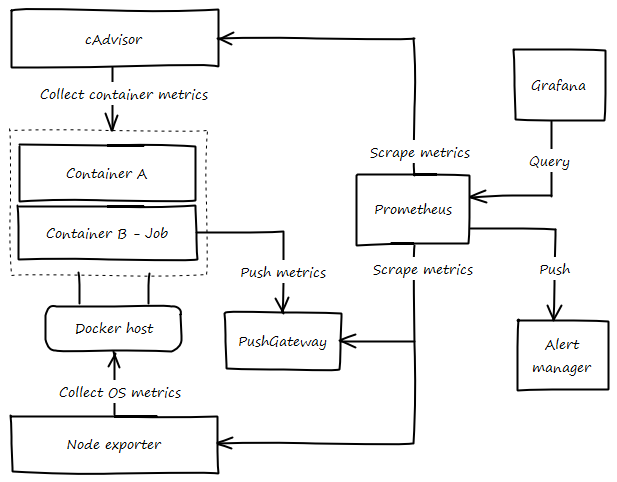
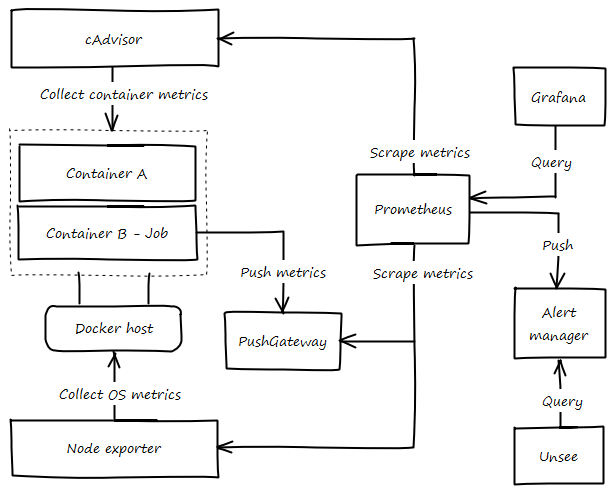
Actualiza la parte del sistema

Changed region(s): [[0.0, 0.0, 0.9902, 0.9959], [0.0928, 0.3423, 0.2476, 0.3734], [0.1238, 0.0622, 0.2476, 0.0934]]

diff --git a/mkdocs/docs/arquitectura/system.md b/mkdocs/docs/arquitectura/system.md
@@ -13,10 +13,10 @@ El "manager" es el encargado de exponer de exponer los diferentes servicios a In
 
 Los "workers" son servidores donde se ejecutan los servicios, están distribuidos entre las 3 zonas que provee Amazon en la región "eu-west-1", esta distribución evita que la aplicación deje de responder si alguna de las zonas cae.
 
-Esta configuración de servidores adoptada viene impuesta por Docker Swarm, dónde existe uno o varios managers, encargados de la reparto de tareas, y un conjunto de servidores workers en donde se desplegan las distintas herramientas.
+Esta configuración de servidores adoptada viene impuesta por Docker Swarm, dónde existe uno o varios managers, encargados del reparto de tareas, y un conjunto de servidores workers, donde se desplegan las distintas herramientas.
 
 ### Despliegue
-Para el aprovisionamiento de todas estas máquinas, con sus respectivos requisitos se ha utilizado como base la plantilla de CloudFormation que proporciona [Docker for AWS](https://docs.docker.com/docker-for-aws/){: target="_blank"}. Dicha plantilla ha sido personalizada, por un lado porque se encontró un problema con el plugin ClouStor y el almacenamiento EFS, que hacia que el comportamiento de la aplicación no fuese el adecuado, así que se optó por reemplazar la imagen base utilizada, Moby Linux, por Ubuntu Server, debido ha que era la causante del problema.
+Para el aprovisionamiento de todas estas máquinas, con sus respectivos requisitos se ha utilizado como base la plantilla de CloudFormation que proporciona [Docker for AWS](https://docs.docker.com/docker-for-aws){: target="_blank"}. Dicha plantilla ha sido personalizada, debido a un problema con el plugin [CloudStor](https://docs.docker.com/docker-for-aws/persistent-data-volumes){: target="_blank"} y el almacenamiento tipo EFS, que hacia que el comportamiento de la aplicación no fuese el adecuado, así que se optó por reemplazar la imagen base utilizada, Moby Linux, por Ubuntu Server, debido ha que la imagen original era la causante del problema.
 
 En la plantilla se definen varios parámetros:
 
@@ -26,8 +26,18 @@ En la plantilla se definen varios parámetros:
 * Tipo de instancias AWS, tanto para managers como workers
 * Tipo de discos y capacidades de los mismos
 
+## Gestión
+Todas los servicios que componen REDMIC trabajan dentro de un contenedor, esto permite aislar cada servicio del entorno de ejecución, evitando problemas de versiones de librerías, conflictos de configuraciones, etc. La distribución de los contenedores en los diferentes servidores es responsabilidad de Docker Swarm, pero en ciertos casos es necesario forzar la distribución a un servidor específico, para ello se siguen ciertos criterios:
+
+* Analizar las cargas de los servidores, para evitar tener servidores con cargas desbalanceadas.
+* Dependencias entre servicios, si hay dependencia entre servicios, y siempre que sea posible se despliegan en el mismo servidor para reducir la latencia de transferencia de datos. Un ejemplo puede ser el contenedor encargado de realizar el backup de la base de datos, sería conveniente que se ejecute en la misma máquina donde se encuentra la base de datos, de esta forma se evita tráfico de red.
+
+Para los contenedores con necesidades de almacenamiento, se utiliza el plugin CloudStor, el cual permite dependiendo del tipo de requisitos montar discos "EBS" o "EFS" a los servidores de forma transparente, utilizando los ficheros de configuración usados para definir los requisitos de cada servicio.
 
 
 
 
+!!! tip
+    Cuando un servicio hace uso intensivo de disco, por ejemplo caché de Nginx, se pueden montar varios volúmenes (EBS) en diferentes directorios, y repartir la caché entre estos discos. De esta forma se reduce la latencia de acceso a disco.
 
+    Esto será solo posible si el servicio permite el uso de varios directorios de trabajo.

diff --git a/mkdocs/docs/arquitectura/monitoring.md b/mkdocs/docs/arquitectura/monitoring.md
@@ -1,14 +1,4 @@
 # Monitorización
-## Gestión
-La distribución de los contenedores en los diferentes servidores, se siguen ciertos criterios:
-
-* Analizar las cargas de los servidores.
-* Dependencias entre servicios, si hay dependencia entre servicios, y siempre que sea posible se despliegan en el mismo servidor para reducir la latencia de transferencia de datos.
-
-!!! tip
-    Cuando un servicio hace uso intensivo de disco, por ejemplo caché de Nginx, se pueden montar varios volúmenes (EBS) en diferentes directorios, y repartir la caché entre estos discos. De esta forma se reduce la latencia de acceso a disco.
-
-    Esto será solo posible si el servicio permite el uso de varios directorios de trabajo.
 
 ### Portainer
 [Portainer](https://portainer.io){: target="_blank"} es un herramienta web para manejar el entorno Docker Swarm, lo que facilita ver el estado del sistema sin tener que acceder a los servidores directamente.
@@ -70,12 +60,16 @@ Cuando un contenedor de este tipo necesita exponer una métrica, realiza un PUT 
 ---
 
 ## Alertas
-Para 
+Una parte importante del sistema son las alertas, estas permitirán detectar posibles problemas.
+
 ### Alertmanager
-[Alertmanager](https://github.com/prometheus/alertmanager){: target="_blank"}
+[Alertmanager](https://github.com/prometheus/alertmanager){: target="_blank"} es un componente que agrupa las alertas recibidas desde Prometheus, elimina alertas duplicadas y envia notificaciones o por diferentes canales: emails, slack, telegram, etc.
+
+A parte de enviar notificaciones permite enviar acciones a otros servicios que soporten webhooks, esto por ejemplo permite escalar un servicio en caso de tener una alta demanda o cuando esta demanda se reduzca reducir el número de instancias del servicio, para ajustar la demanda al número de instancias.
 
 ### Unsee
-[Unsee](https://github.com/cloudflare/unsee){: target="_blank"}
+[Unsee](https://github.com/cloudflare/unsee){: target="_blank"} permite ver de forma gráfica las alertas que existen actualmente.
+
 
 ## Chequeo de salud
 Todos los contenedores tienen un chequeo de salud que se realiza cada cierto tiempo mientras están en ejecución, esto permite comprobar si el contenedor está funcionando correctamente. Si el chequeo detecta que el funcionamiento no es correcto, el contenedor es parado y se arranca una nueva instancia.

diff --git a/mkdocs/docs/index.md b/mkdocs/docs/index.md
@@ -1,6 +1,9 @@
 # Concepto
 ## ¿Qué es REDMIC?
-*REDMIC* está concebido como un sistema para la gestión de datos marinos, sin tener en cuenta su origen; oceanográficos, biológicos, hidrodinámicos, pesqueros, geológicos, tráfico marítimo, etc. Dicho sistema permite el registro, validación, búsqueda, recuperación, visualización, análisis y exportación de los datos.
+REDMIC está concebido como un sistema para la gestión de datos marinos, sin tener en cuenta su origen; oceanográficos, biológicos, hidrodinámicos, pesqueros, geológicos, tráfico marítimo, etc. en un solo herramienta. Esta característica convierte a REDMIC en una herramienta única.
+
+
+Dicho sistema permite el registro, validación, búsqueda, recuperación, visualización, análisis y exportación de los datos.
 
 ![data_sources](images/data_sources.jpg){: .shadow}
 
@@ -46,9 +49,9 @@ Debido a la gran variedad de datos que abarca REDMIC, se pueden tener diferentes
 
 
 ## ¿Por qué poner tus datos en REDMIC?
-Colaborar con REDMIC, subiendo tus datos hará que tus datos tengan mayor repercusión ya que estarán disponibles para toda la comunidad científica, y no se perderán guardados en una gaveta. Además esta publicidad de tus datos hará que tu trabajo se vea recompensado.
+Colaborar con REDMIC, subiendo tus datos hará que tengas mayor repercusión ya que estarán disponibles para toda la comunidad científica.
 
-Por ética, si tu trabajo ha sido financiado con fondos públicos y no ponen en riesgo la seguridad ciudadana, deberías te liberar tus datos a la comunidad para que puedan ser usados de nuevo en otros estudios o análisis.
+Por ética, si tu trabajo ha sido financiado con fondos públicos y no existe alguna restricción jurídica, deberías de liberar tus datos a la comunidad para que puedan ser usados de nuevo en futuros estudios o análisis.
 
 Por otro lado, podrás correlacionar tus datos con otros datos usando las herramientas disponibles en REDMIC, que irán aumentando a medida que el proyecto avance en su desarrollo.
 

diff --git a/mkdocs/docs/arquitectura/cd_ci.md b/mkdocs/docs/arquitectura/cd_ci.md
@@ -1,3 +1,4 @@
 # Integración Continua
 Para el desarrollo de REDMIC se utiliza un entorno de integración continua, en adelante CI. Esto permite que cada modificación subida a GitLab, pasa una batería de tests.
+
 ![](images/CD.png){: .center}
